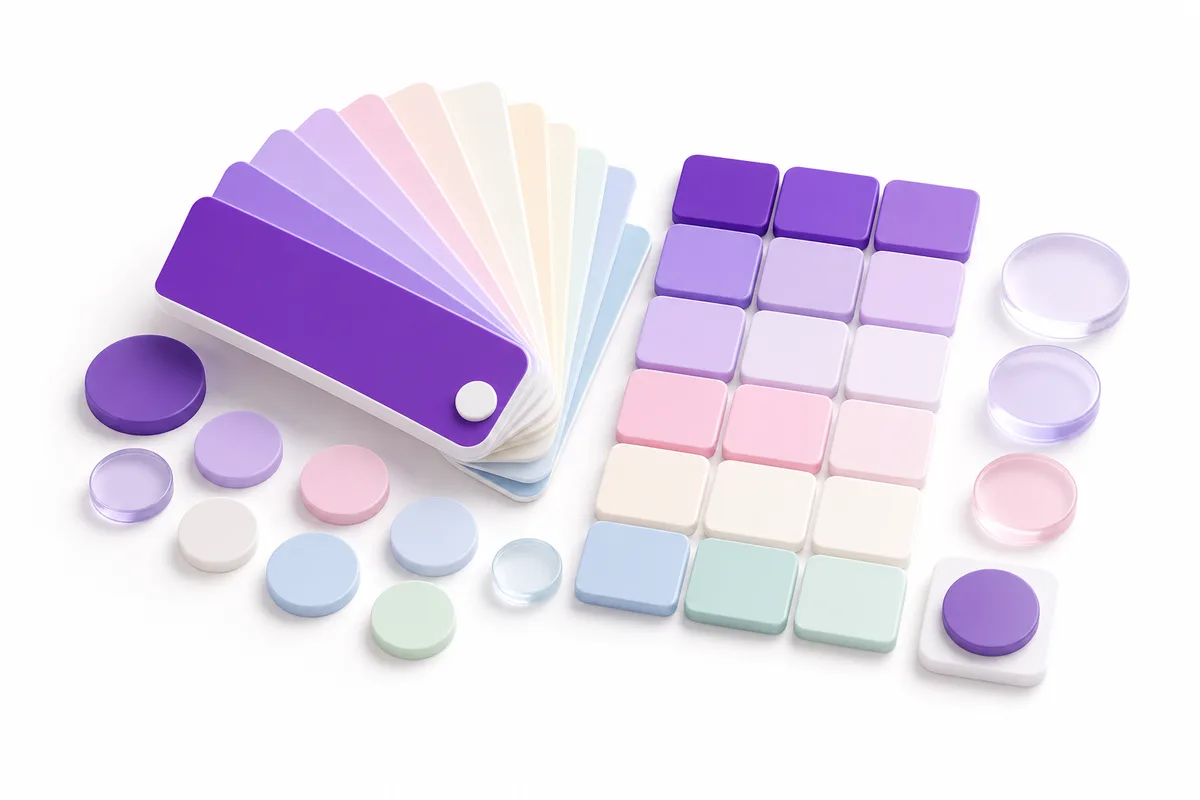
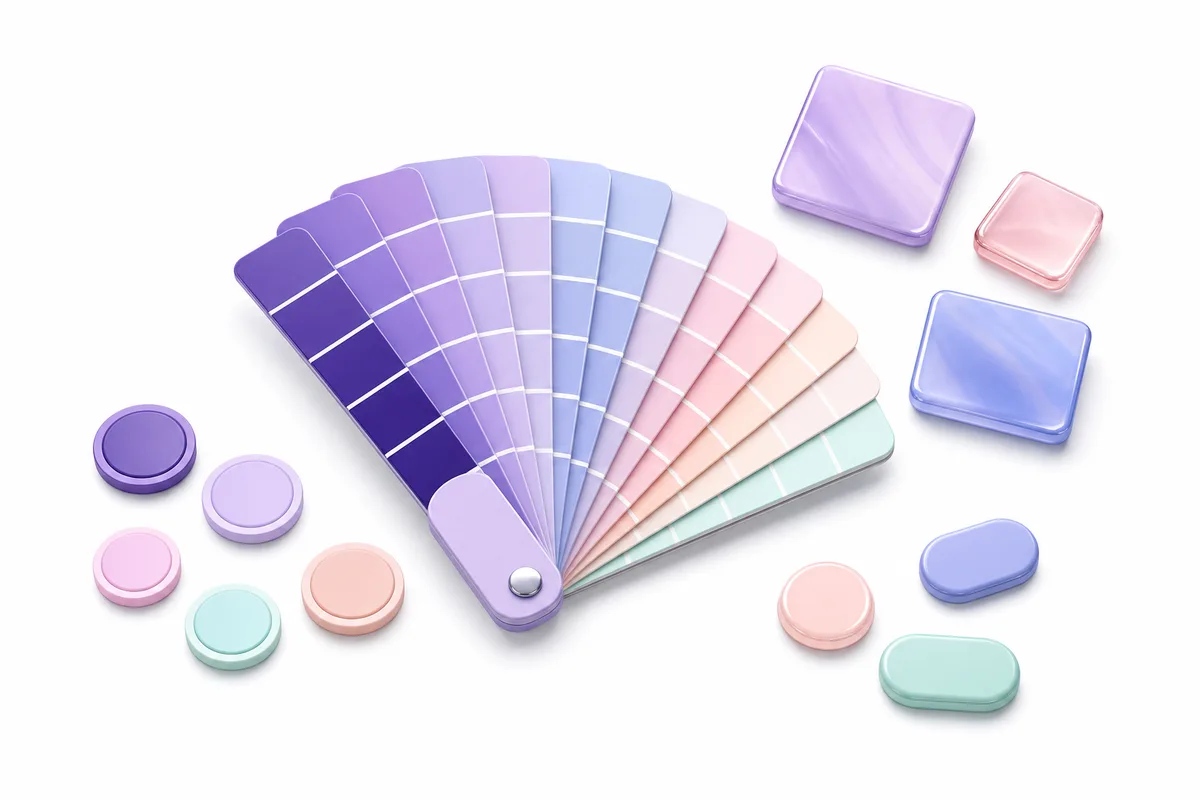
fix(qa2): Colors·Recipes 일러스트 재생성 — 경계 절단면 제거 (완결 구성 + object-contain)

diff --git a/examples/ui-vocabulary-site/src/components/get-started-previews.tsx b/examples/ui-vocabulary-site/src/components/get-started-previews.tsx
@@ -20,7 +20,7 @@ export function ColorsSwatchGrid() {
     <div aria-hidden="true" className="pointer-events-none select-none">
       <img
         alt=""
-        className="h-48 w-full rounded-xl object-cover"
+        className="h-48 w-full object-contain"
         src="/assets/get-started/colors.webp"
       />
     </div>
@@ -32,7 +32,7 @@ export function RecipesCollage() {
     <div aria-hidden="true" className="pointer-events-none select-none lg:py-2">
       <img
         alt=""
-        className="h-56 w-full rounded-xl object-cover"
+        className="h-56 w-full object-contain"
         src="/assets/get-started/recipes.webp"
       />
     </div>
